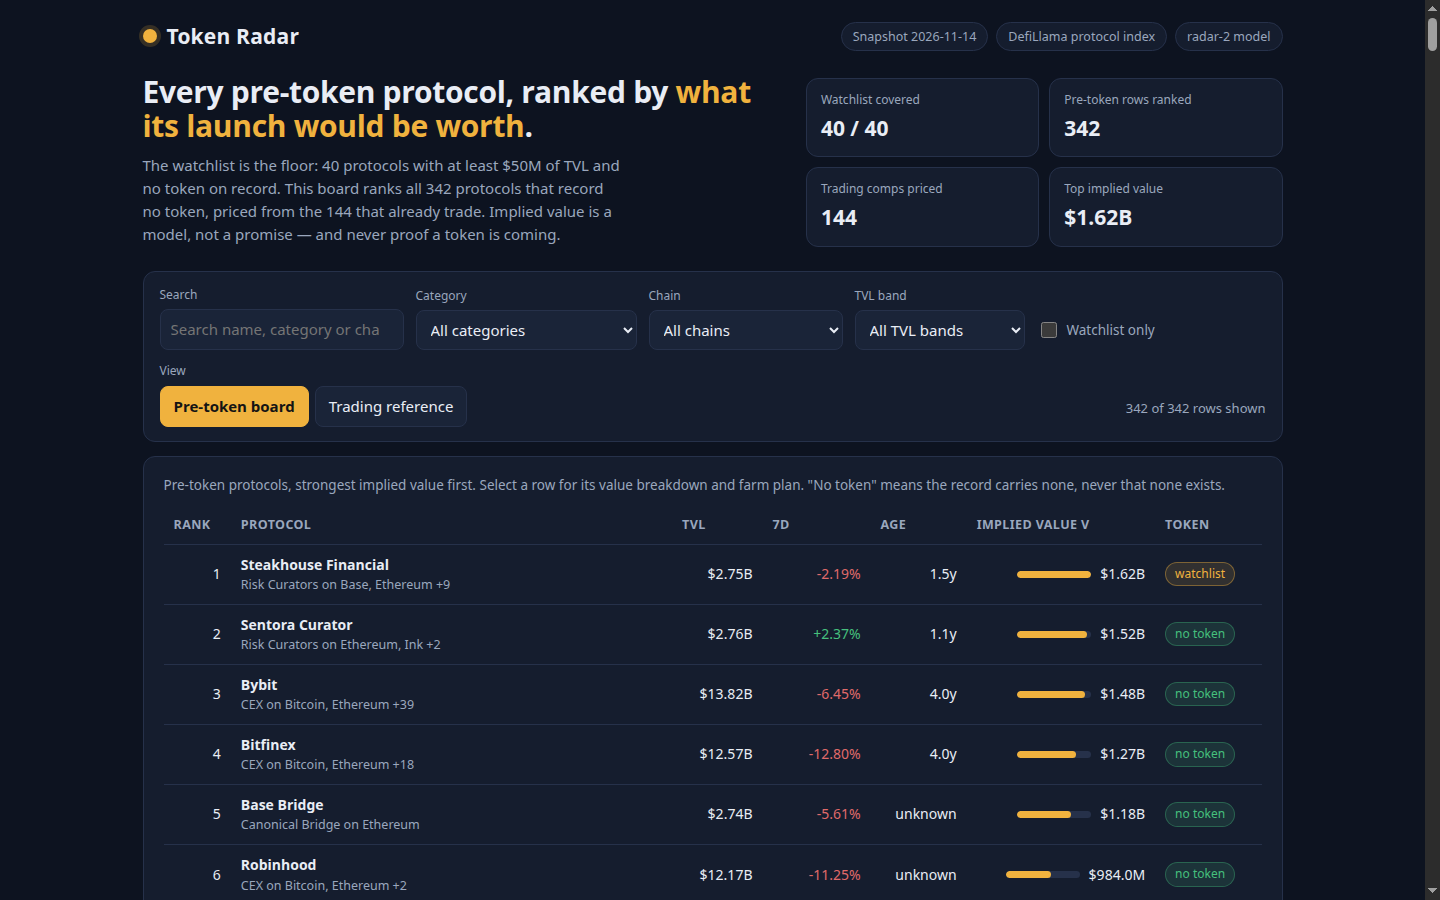
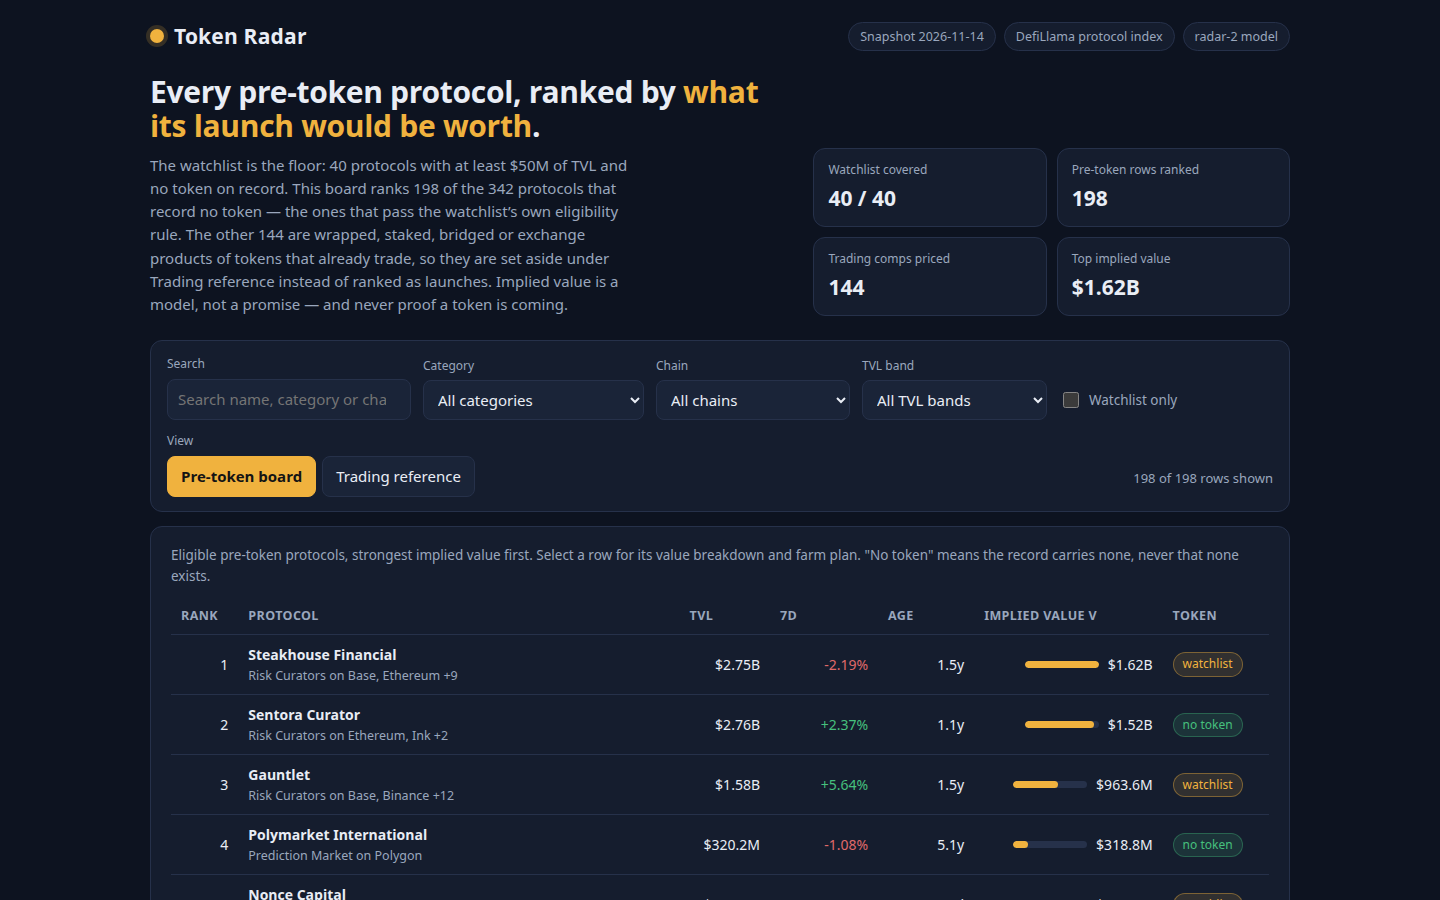
Apply the watchlist eligibility rule to the ranked board
The board ranked all 342 protocols that record no token, so its top 10
held Bybit, Bitfinex, Robinhood, Bitget, WBTC, Base Bridge and Coinbase
Bridge - wrapped, staked, bridged or exchange products of tokens that
already trade. The watchlist rule excludes exactly these, so the board
now applies that rule mechanically from the snapshot fields, minus the
TVL floor: excluded categories, version-marked names, wrapped/staked/
staking words, and exchange-named products. No hand-picked names.

144 protocols move out of the ranked board into the dashboard's
reference panel, each with the reason it was set aside; the board is
now 198 rows and still covers the watchlist 40/40. The radar-2 value
model and its calibration shrinkage are unchanged.

diff --git a/dashboard/app.js b/dashboard/app.js
@@ -226,7 +226,7 @@
     return el('section', { class: 'lede' },
       el('div', null,
         el('h1', null, 'Every pre-token protocol, ranked by ', el('em', { text: 'what its launch would be worth' }), '.'),
-        el('p', { text: 'The watchlist is the floor: ' + DATA.watchlist_size + ' protocols with at least $' + Math.round(DATA.floor_usd / 1e6) + 'M of TVL and no token on record. This board ranks all ' + DATA.board_size + ' protocols that record no token, priced from the ' + DATA.calibration.comps_total + ' that already trade. Implied value is a model, not a promise — and never proof a token is coming.' })
+        el('p', { text: 'The watchlist is the floor: ' + DATA.watchlist_size + ' protocols with at least $' + Math.round(DATA.floor_usd / 1e6) + 'M of TVL and no token on record. This board ranks ' + DATA.board_size + ' of the ' + DATA.counts.pre_token + ' protocols that record no token — the ones that pass the watchlist\u2019s own eligibility rule. The other ' + DATA.counts.excluded + ' are wrapped, staked, bridged or exchange products of tokens that already trade, so they are set aside under Trading reference instead of ranked as launches. Implied value is a model, not a promise — and never proof a token is coming.' })
       ),
       el('div', { class: 'facts' },
         el('div', { class: 'fact' }, el('span', { text: 'Watchlist covered' }), el('b', { text: DATA.watchlist_size + ' / ' + DATA.watchlist_size })),
@@ -270,7 +270,7 @@
       el('div', { class: 'field' }, el('label', { for: 'band', text: 'TVL band' }), band),
       el('label', { class: 'check', for: 'watch' }, watch, 'Watchlist only'),
       el('div', { class: 'field' }, el('span', { class: 'lab', text: 'View' }), el('div', { class: 'tabs' }, pre, live)),
-      el('span', { class: 'count', text: state.tab === 'pre' ? filteredRows().length + ' of ' + DATA.board_size + ' rows shown' : DATA.live.length + ' trading protocols' })
+      el('span', { class: 'count', text: state.tab === 'pre' ? filteredRows().length + ' of ' + DATA.board_size + ' rows shown' : DATA.live.length + ' trading protocols, ' + DATA.excluded.length + ' set aside' })
     );
   }
 
@@ -322,7 +322,7 @@
     return el('div', { class: 'panel' },
       el('div', { class: 'table-wrap' },
         el('table', null,
-          el('caption', { class: 'sub', text: 'Pre-token protocols, strongest implied value first. Select a row for its value breakdown and farm plan. "No token" means the record carries none, never that none exists.' }),
+          el('caption', { class: 'sub', text: 'Eligible pre-token protocols, strongest implied value first. Select a row for its value breakdown and farm plan. "No token" means the record carries none, never that none exists.' }),
           el('thead', null, el('tr', null,
             sortHeader('rank', 'Rank'),
             sortHeader('name', 'Protocol'),
@@ -362,6 +362,28 @@
     );
   }
 
+  function excludedTable() {
+    var tbody = el('tbody');
+    DATA.excluded.forEach(function (r) {
+      tbody.appendChild(el('tr', null,
+        el('td', null, el('div', { class: 'name' }, el('b', { text: r.name }), el('span', { class: 'sub', text: (r.category || 'Uncategorised') + ' on ' + (r.chains && r.chains.length ? r.chains.slice(0, 2).join(', ') : 'an unnamed chain') }))),
+        el('td', { class: 'num', text: fmtUsd(r.tvl_usd) }),
+        el('td', { class: 'num ' + (r.change_7d !== null && r.change_7d >= 0 ? 'pos' : 'neg'), text: fmtPct(r.change_7d) }),
+        el('td', { class: 'wrap', text: r.reason })
+      ));
+    });
+    return el('div', { class: 'panel' },
+      el('h2', { text: 'Set aside by the watchlist rule — not ranked' }),
+      el('p', { class: 'sub', text: 'These ' + DATA.excluded.length + ' protocols record no token in the snapshot, but the watchlist\u2019s own rule sets them aside: a bridge, a liquid-staking or restaking product, a centralised exchange, a version-marked name, or a name that begins with an exchange. Each is a wrapped, staked or bridged product of a token that already trades, so ranking it as a launch that has not happened yet would be wrong. The rule is applied mechanically from the snapshot fields — no name is hand-picked.' }),
+      el('div', { class: 'table-wrap' },
+        el('table', null,
+          el('thead', null, el('tr', null, el('th', { scope: 'col', text: 'Protocol' }), el('th', { scope: 'col', text: 'TVL' }), el('th', { scope: 'col', text: '7d' }), el('th', { scope: 'col', text: 'Why it is not ranked' }))),
+          tbody
+        )
+      )
+    );
+  }
+
   function modelPanel() {
     var m = DATA.model;
     var c = DATA.calibration;
@@ -380,7 +402,7 @@
       el('div', { class: 'model-grid' }, cells.map(function (cell) {
         return el('div', { class: 'model-cell' }, el('span', { text: cell[0] }), el('b', { text: cell[1] }));
       })),
-      el('p', { class: 'sub', text: 'Age is the time since DefiLlama first listed the protocol; a protocol with no listed date uses the pre-token median age. No protocol name is special-cased, and no row is hand-picked.' })
+      el('p', { class: 'sub', text: 'Age is the time since DefiLlama first listed the protocol; a protocol with no listed date uses the median age of the ranked set. No protocol name is special-cased, and no row is hand-picked. Before scoring, the board applies the watchlist\u2019s own eligibility rule, mechanically from the snapshot fields: bridges, liquid-staking and restaking products, centralised exchanges, version-marked names and exchange-named products are set aside, not ranked.' })
     );
   }
 
@@ -472,9 +494,10 @@
       shell.appendChild(modelPanel());
       shell.appendChild(calibPanel());
     } else {
+      shell.appendChild(excludedTable());
       shell.appendChild(el('section', { class: 'panel' },
         el('h2', { text: 'Why these are set aside' }),
-        el('p', { class: 'sub', text: 'A protocol whose token already trades has a market price, so there is nothing to imply. These ' + DATA.live.length + ' are the largest of them by market cap; their ratios priced the board above. The full calibration table sits under the pre-token board.' })
+        el('p', { class: 'sub', text: 'A protocol whose token already trades has a market price, so there is nothing to imply. These ' + DATA.live.length + ' are the largest of them by market cap; their ratios priced the board above. The ' + DATA.excluded.length + ' above them record no token but are wrapped, staked, bridged or exchange products, so they are not launches either. The full calibration table sits under the pre-token board.' })
       ));
     }
     shell.appendChild(el('p', { class: 'foot', text: 'Source: ' + DATA.source + '. "No token" means the DefiLlama record carries no token — it is not proof that none exists. Implied values are this radar\u2019s own model, never a price or a promise.' }));

diff --git a/lib/model.ts b/lib/model.ts
@@ -1,8 +1,15 @@
 // Radar model: snapshot in, ranked board out.
 //
 // The board ranks every protocol that records no token (all three of mcap_usd, gecko_id and
-// symbol null). The watchlist is the floor: its 40 slugs are always in, and the other 302
-// pre-token protocols join them, so the board is the full pre-token set, not a TVL top list.
+// symbol null) AND passes the watchlist's own eligibility rule, minus the TVL floor: no
+// Bridge / Canonical Bridge / Liquid Staking / Liquid Restaking / Restaked BTC / CEX
+// category, no version-marked name, no whole word wrapped/staked/staking in the name, and
+// no name that begins with an exchange's name. The rule is the competition's own
+// (input/README.md), applied mechanically from the snapshot fields, so a wrapped, staked
+// or bridged product of a token that already trades is never ranked as a launch that has
+// not happened yet. The watchlist is the floor: its 40 slugs pass the rule by
+// construction and are always in. The protocols the rule sets aside are listed on the
+// dashboard as reference, each with the reason it was set aside.
 //
 // Implied value comes only from the snapshot's own figures. The comparables are the protocols
 // that already trade and carry a market cap: their market-cap-to-TVL ratio, taken per category
@@ -149,6 +156,17 @@ export interface DataRow {
   farm_steps: string[];
 }
 
+/** A pre-token protocol the watchlist rule sets aside, with the reason it is not ranked. */
+export interface ExcludedRef {
+  slug: string;
+  name: string;
+  category: string | null;
+  chains: string[];
+  tvl_usd: number;
+  change_7d: number | null;
+  reason: string;
+}
+
 /** Everything the dashboard renders, written to data.js by main.ts. */
 export interface RadarData {
   as_of: string;
@@ -156,12 +174,13 @@ export interface RadarData {
   floor_usd: number;
   model: RadarConstants;
   model_version: string;
-  counts: { protocols: number; pre_token: number; trading: number; with_mcap: number };
+  counts: { protocols: number; pre_token: number; trading: number; with_mcap: number; excluded: number };
   watchlist_size: number;
   board_size: number;
   calibration: Calibration;
   rows: DataRow[];
   live: LiveRef[];
+  excluded: ExcludedRef[];
 }
 
 /** Why the snapshot cannot be scored. */
@@ -201,6 +220,43 @@ export function ageDays(asOf: string, listedAt: string | null): number | null {
 /** A protocol records no token when all three token fields are null. */
 export function isPreToken(p: SnapProtocol): boolean {
   return p.mcap_usd === null && p.gecko_id === null && p.symbol === null;
+}
+
+/**
+ * The watchlist rule's own exclusion, minus the TVL floor (input/README.md), applied
+ * mechanically from the snapshot fields: no hand-picked names, no hardcoded list.
+ */
+const EXCLUDED_CATEGORIES = new Set([
+  'Bridge',
+  'Canonical Bridge',
+  'Liquid Staking',
+  'Liquid Restaking',
+  'Restaked BTC',
+  'CEX',
+]);
+const EXCHANGE_NAMES = ['Binance', 'Coinbase', 'Bybit', 'Kraken', 'Bitget', 'OKX', 'Bitfinex', 'Gemini'];
+const VERSION_MARK = /\s(V\d+(\.\d+)?|v\d+(\.\d+)?|\d+\.\d+)$/;
+const WRAPPED_WORD = /\b(wrapped|staked|staking)\b/i;
+
+/**
+ * Why a protocol is not ranked, one phrase per rule that fires, or an empty array when it
+ * passes: its category, a version marker at the end of its name, a whole wrapped / staked /
+ * staking word in its name, or a name that begins with an exchange's name.
+ */
+export function exclusionReasons(p: SnapProtocol): string[] {
+  const reasons: string[] = [];
+  if (p.category !== null && EXCLUDED_CATEGORIES.has(p.category)) {
+    reasons.push(
+      p.category === 'CEX'
+        ? 'CEX — a centralised exchange, not a protocol awaiting its own token'
+        : `${p.category} — a wrapped, staked or bridged product of a token that already trades`,
+    );
+  }
+  if (VERSION_MARK.test(p.name)) reasons.push('version-marked name — a new version of a product, not a first launch');
+  if (WRAPPED_WORD.test(p.name)) reasons.push('name carries "wrapped", "staked" or "staking" — a wrapped or staked product of a token that already trades');
+  const exchange = EXCHANGE_NAMES.find((e) => p.name.startsWith(e));
+  if (exchange !== undefined) reasons.push(`name begins with "${exchange}" — an exchange product`);
+  return reasons;
 }
 
 /**
@@ -379,10 +435,10 @@ export function farmSteps(p: SnapProtocol, age: number | null): string[] {
   ];
 }
 
-/** The ranked board: every pre-token protocol, strongest implied value first, ranks 1..N. */
+/** The ranked board: every eligible pre-token protocol, strongest implied value first, ranks 1..N. */
 export function buildBoard(snapshot: SnapshotDoc, c: RadarConstants = CONSTANTS): { board: BoardRow[]; calib: Calibration } {
   const calib = calibrate(snapshot.protocols, c);
-  const pre = snapshot.protocols.filter(isPreToken);
+  const pre = snapshot.protocols.filter((p) => isPreToken(p) && exclusionReasons(p).length === 0);
   const fallbackAge = fallbackAgeOf(pre, snapshot.as_of);
   const watch = new Set(snapshot.watchlist);
   const scored = pre.map((p) => {
@@ -424,10 +480,29 @@ export function liveRefs(snapshot: SnapshotDoc, limit = 24): LiveRef[] {
     }));
 }
 
+/** The pre-token protocols the watchlist rule sets aside, by TVL, each with its reason. */
+export function excludedRefs(snapshot: SnapshotDoc): ExcludedRef[] {
+  return snapshot.protocols
+    .filter(isPreToken)
+    .map((p) => ({ p, reasons: exclusionReasons(p) }))
+    .filter((x) => x.reasons.length > 0)
+    .sort((a, b) => b.p.tvl_usd - a.p.tvl_usd)
+    .map((x) => ({
+      slug: x.p.slug,
+      name: x.p.name,
+      category: x.p.category,
+      chains: x.p.chains,
+      tvl_usd: x.p.tvl_usd,
+      change_7d: x.p.change_7d,
+      reason: x.reasons.join('; '),
+    }));
+}
+
 /** Everything the dashboard renders, from the snapshot. */
 export function buildRadar(snapshot: SnapshotDoc, c: RadarConstants = CONSTANTS): { board: BoardRow[]; radar: RadarData } {
   const { board, calib } = buildBoard(snapshot, c);
   const live = liveRefs(snapshot);
+  const excluded = excludedRefs(snapshot);
   const preCount = snapshot.protocols.filter(isPreToken).length;
   const tradingCount = snapshot.protocols.length - preCount;
   const radar: RadarData = {
@@ -441,6 +516,7 @@ export function buildRadar(snapshot: SnapshotDoc, c: RadarConstants = CONSTANTS)
       pre_token: preCount,
       trading: tradingCount,
       with_mcap: calib.comps_total,
+      excluded: excluded.length,
     },
     watchlist_size: snapshot.watchlist.length,
     board_size: board.length,
@@ -460,6 +536,7 @@ export function buildRadar(snapshot: SnapshotDoc, c: RadarConstants = CONSTANTS)
       farm_steps: r.farm_steps,
     })),
     live,
+    excluded,
   };
   return { board, radar };
 }

diff --git a/dashboard/app.css b/dashboard/app.css
@@ -62,6 +62,7 @@ button { cursor: pointer; }
 table { width: 100%; border-collapse: collapse; font-size: 14px; }
 caption { text-align: left; padding-bottom: 10px; }
 th, td { padding: 9px 10px; text-align: left; border-bottom: 1px solid var(--line); white-space: nowrap; }
+td.wrap { white-space: normal; min-width: 340px; }
 th { color: var(--muted); font-size: 12.5px; text-transform: uppercase; letter-spacing: .4px; }
 th button { background: none; border: 0; padding: 0; color: var(--muted); font-size: 12.5px; text-transform: uppercase; letter-spacing: .4px; font-weight: 650; }
 th button:hover { color: var(--amber); }
